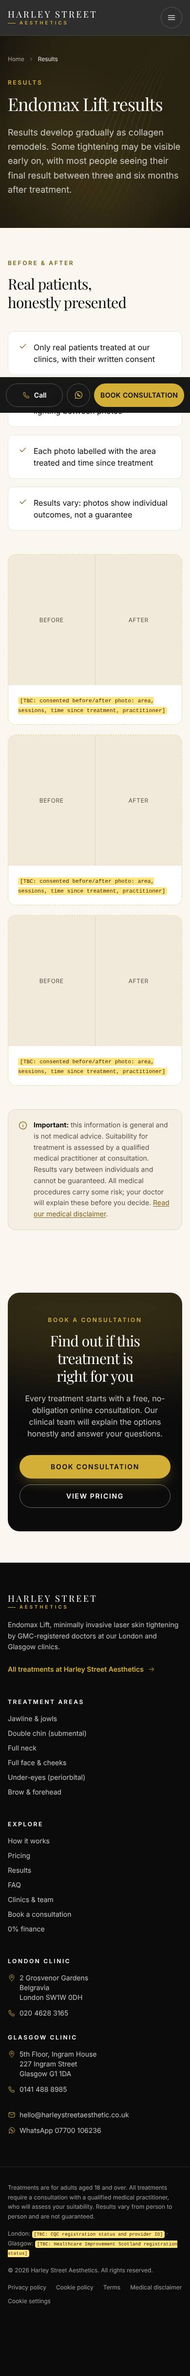
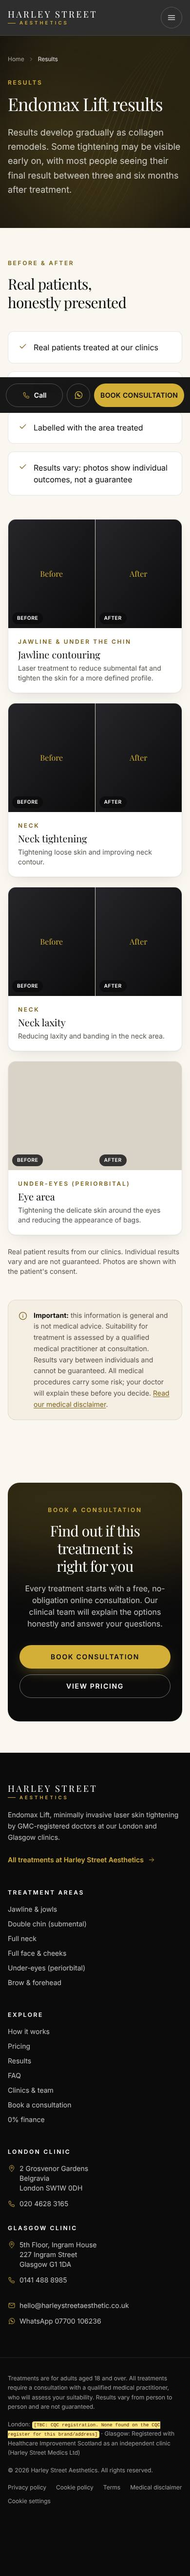
Fill remaining gaps from main website at clinic's request (titles, before/after, enquiry email, review source, prices)

diff --git a/src/app/page.tsx b/src/app/page.tsx
@@ -13,6 +13,8 @@ import { EnquiryForm } from "@/components/EnquiryForm";
 import { Icon } from "@/components/Icon";
 import { JsonLd } from "@/components/JsonLd";
 import { T } from "@/components/Tbc";
+import { BeforeAfter } from "@/components/BeforeAfter";
+import { RESULTS } from "@/content/results";
 import { allClinicsSchema, faqSchema, procedureSchema } from "@/lib/schema";
 import { pageMetadata } from "@/lib/seo";
 
@@ -149,18 +151,14 @@ export default function HomePage() {
                   Results build as new collagen forms, with most people seeing their final result between three and six months after treatment. Everyone&rsquo;s
                   skin is different, so results vary and are not guaranteed.
                 </p>
-                <p className="mt-4">We only show before-and-after photos of real patients who have given written consent, unedited and with full details.</p>
+                <p className="mt-4">All before-and-after photos are of real patients treated at our clinics.</p>
               </>
             }
           />
-          <div className="rounded-2xl border border-dashed border-gold/60 bg-white p-8 text-center">
-            <Icon name="sparkle" className="mx-auto h-8 w-8 text-gold-700" />
-            <p className="mt-4 font-serif text-2xl text-ink">Before &amp; after gallery</p>
-            <p className="mt-2 text-sm text-stone">
-              <T>[TBC: consented before-and-after photos with treatment details]</T>
-            </p>
-            <Link href="/results/" className="mt-6 inline-flex items-center gap-2 text-sm font-semibold text-gold-700 hover:text-ink">
-              About our results <Icon name="arrow" className="h-4 w-4" />
+          <div>
+            <BeforeAfter r={RESULTS[0]} />
+            <Link href="/results/" className="mt-4 inline-flex items-center gap-2 text-sm font-semibold text-gold-700 hover:text-ink">
+              See more results <Icon name="arrow" className="h-4 w-4" />
             </Link>
           </div>
         </div>
@@ -172,7 +170,7 @@ export default function HomePage() {
           id="team-title"
           eyebrow="Your doctors"
           title="Doctor-led from consultation to aftercare"
-          intro={<T>{"Treatment is planned and carried out by GMC-registered doctors. [TBC: confirm which practitioners perform this treatment at each clinic]"}</T>}
+          intro="Treatment is planned and carried out by GMC-registered doctors."
         />
         <ul className="grid gap-6 sm:grid-cols-2 lg:grid-cols-3">
           {PRACTITIONERS.map((p) => (

diff --git a/src/content/people.ts b/src/content/people.ts
@@ -18,7 +18,6 @@ export const PRACTITIONERS: Practitioner[] = [
   {
     name: "Dr Nina Ku",
     title: "Dermatologist",
-    qualifications: "[TBC: qualifications]",
     bio: "Dr Ku has trained and worked across the UK, France and Europe. Clinical interests include laser and energy-based treatments, laser lifting and injectables. Dr Ku speaks English, French and Russian.",
     photo: "https://harleystreetaesthetic.co.uk/images/team/dr-nina-ku.webp",
     gmc: "[TBC: GMC number]",
@@ -26,9 +25,10 @@ export const PRACTITIONERS: Practitioner[] = [
   },
   {
     name: "Mr Khalil Al-Nakib",
-    // GMC register shows full registration but no Specialist Register entry, so "Consultant" may not be usable.
-    title: "[TBC: job title. GMC register shows no Specialist Register entry]",
-    qualifications: "MB ChB (University of Mosul, 1971). [TBC: confirm FRCSEd]",
+    // Title and FRCSEd as published on harleystreetaesthetic.co.uk/london/team (used at the clinic's request).
+    // Note: the GMC register shows no Specialist Register entry. See docs/open-questions.md §E.
+    title: "Consultant Plastic Surgeon",
+    qualifications: "MB ChB, FRCSEd",
     bio: "Mr Al-Nakib qualified in medicine in 1971 and has experience in plastic, aesthetic and reconstructive surgery and the use of medical lasers, and holds regular clinics in London and Glasgow.",
     photo: "https://harleystreetmedics.clinic/wp-content/uploads/2024/11/6-1.webp",
     // Verified at https://www.gmc-uk.org/registrants/3632451 on 23 Oct 2026.
@@ -37,8 +37,7 @@ export const PRACTITIONERS: Practitioner[] = [
   },
   {
     name: "Dr Ayda Soltanzadeh",
-    title: "[TBC: job title. GMC number and specialist registration not yet verified]",
-    qualifications: "[TBC: qualifications]",
+    title: "Consultant Dermatologist",
     bio: "Dr Soltanzadeh offers bespoke treatment plans, with a focus on thread lifts, facial contouring and non-surgical facial rejuvenation.",
     photo: "https://images-strategyguys.netlify.app/harleystreemedics-image-source-main/dr.%20ayda.webp",
     gmc: "[TBC: GMC number]",
@@ -85,4 +84,4 @@ export const REVIEWS: Review[] = [
   },
 ];
 
-export const REVIEW_SOURCE_NOTE = "[TBC: review source (e.g. Google), dates and permission to quote]";
+export const REVIEW_SOURCE_NOTE = "Verified independent reviews, as published on our main website.";

diff --git a/src/app/results/page.tsx b/src/app/results/page.tsx
@@ -3,7 +3,8 @@ import { CtaBanner, MedicalDisclaimer, PageHero } from "@/components/Blocks";
 import { Icon } from "@/components/Icon";
 import { JsonLd } from "@/components/JsonLd";
 import { Section, SectionHeading } from "@/components/Section";
-import { T } from "@/components/Tbc";
+import { BeforeAfter } from "@/components/BeforeAfter";
+import { RESULTS, RESULTS_NOTE } from "@/content/results";
 import { breadcrumbSchema } from "@/lib/schema";
 import { pageMetadata } from "@/lib/seo";
 
@@ -16,9 +17,9 @@ export const metadata = pageMetadata({
 });
 
 const PRINCIPLES = [
-  "Only real patients treated at our clinics, with their written consent",
-  "No retouching, filters or changes to lighting between photos",
-  "Each photo labelled with the area treated and time since treatment",
+  "Real patients treated at our clinics",
+  "Shown with the patient's consent",
+  "Labelled with the area treated",
   "Results vary: photos show individual outcomes, not a guarantee",
 ];
 
@@ -42,19 +43,12 @@ export default function ResultsPage() {
             </li>
           ))}
         </ul>
-        <div className="grid gap-5 sm:grid-cols-2 lg:grid-cols-3">
-          {Array.from({ length: 3 }).map((_, i) => (
-            <figure key={i} className="overflow-hidden rounded-2xl border border-dashed border-gold/60 bg-white">
-              <div className="grid aspect-[4/3] grid-cols-2 gap-px bg-mist">
-                <div className="flex items-center justify-center bg-sand text-xs tracking-wider text-stone uppercase">Before</div>
-                <div className="flex items-center justify-center bg-sand text-xs tracking-wider text-stone uppercase">After</div>
-              </div>
-              <figcaption className="p-5 text-sm text-stone">
-                <T>[TBC: consented before/after photo: area, sessions, time since treatment, practitioner]</T>
-              </figcaption>
-            </figure>
+        <div className="grid gap-5 sm:grid-cols-2">
+          {RESULTS.map((r) => (
+            <BeforeAfter key={r.before} r={r} />
           ))}
         </div>
+        <p className="mt-6 text-sm text-stone">{RESULTS_NOTE}</p>
         <MedicalDisclaimer className="mt-12" />
       </Section>
       <CtaBanner />

diff --git a/src/content/results.ts b/src/content/results.ts
@@ -1,0 +1,49 @@
+/**
+ * Before/after photos reused at the clinic's request from the gallery on
+ * https://harleystreetaesthetic.co.uk/london/gallery (Endolift filter, read 23 Oct 2026).
+ * Titles are reworded to avoid "non-surgical lift" wording (Copilot playbook). The body result is
+ * left out because body areas aren't offered. Written consent for web use must be held on file.
+ */
+const CDN = "https://images-strategyguys.netlify.app/harley-street-aesthetics-main/";
+
+export interface Result {
+  title: string;
+  area: string;
+  text: string;
+  before: string;
+  after: string;
+}
+
+export const RESULTS: Result[] = [
+  {
+    title: "Jawline contouring",
+    area: "Jawline & under the chin",
+    text: "Laser treatment to reduce submental fat and tighten the skin for a more defined profile.",
+    before: `${CDN}Endo%20Lift%20Jaw%20Before.webp`,
+    after: `${CDN}Endo%20Lift%20Jaw%20After.webp`,
+  },
+  {
+    title: "Neck tightening",
+    area: "Neck",
+    text: "Tightening loose skin and improving neck contour.",
+    before: `${CDN}Neck%20Lift%20Before.webp`,
+    after: `${CDN}Neck%20Lift%20After.webp`,
+  },
+  {
+    title: "Neck laxity",
+    area: "Neck",
+    text: "Reducing laxity and banding in the neck area.",
+    before: `${CDN}Neck%20Before.webp`,
+    after: `${CDN}Neck%20After.webp`,
+  },
+  {
+    title: "Eye area",
+    area: "Under-eyes (periorbital)",
+    text: "Tightening the delicate skin around the eyes and reducing the appearance of bags.",
+    before: `${CDN}Endolift%20eye%20before.webp`,
+    after: `${CDN}Endolift%20eye%20after.webp`,
+  },
+];
+
+export const RESULTS_NOTE =
+  "Real patient results from our clinics. Individual results vary and are not guaranteed. Photos are shown with the patient's consent.";

diff --git a/src/content/areas.ts b/src/content/areas.ts
@@ -49,9 +49,9 @@ export const AREAS: Area[] = [
       "A soft neck–chin angle",
       "Mild laxity under the jaw",
     ],
-    price: "[TBC: standalone submental price]",
+    price: "£2,150",
     priceNote:
-      "Our EndoMax Signature package combines submental treatment with 2 ml jawline filler for £2,150 and includes one free Nu Sculpt session.",
+      "The price shown is our EndoMax Signature package: under-chin laser treatment plus 2 ml jawline filler, including one free Nu Sculpt session. Ask about under-chin treatment on its own at your consultation.",
     includesNuSculpt: false,
     icon: "chin",
     metaDescription:
@@ -125,7 +125,7 @@ export const PACKAGES = [
   },
   {
     name: "CO₂ + eyelid combination",
-    description: "CO₂ laser combined with laser treatment around the eyelids. [TBC: package details]",
+    description: "CO₂ laser combined with Endomax Lift for the eyelid area.",
     price: "£1,299",
     includesNuSculpt: false,
   },
@@ -143,9 +143,6 @@ export const CONSULTATION = {
 /** Copilot playbook: only this wording may be used. No providers, instalment amounts or terms. */
 export const FINANCE_TEXT = "0% finance may be available, subject to status.";
 export const FINANCE_SMALLPRINT = "[TBC: finance provider and FCA status before naming any lender or plan]";
-export const HEADLINE_PRICE_NOTE =
-  "[TBC: campaign headline “from £1,450, usually from £2,000” conflicts with the £999 per-area price. Confirm which to use]";
-
 export function getArea(slug: string) {
   return AREAS.find((a) => a.slug === slug);
 }

diff --git a/src/components/BeforeAfter.tsx b/src/components/BeforeAfter.tsx
@@ -1,0 +1,22 @@
+import type { Result } from "@/content/results";
+import { FallbackImage } from "./FallbackImage";
+
+export function BeforeAfter({ r }: { r: Result }) {
+  return (
+    <figure className="overflow-hidden rounded-2xl border border-ink/10 bg-white shadow-card">
+      <div className="grid grid-cols-2 gap-px bg-mist">
+        {(["before", "after"] as const).map((k) => (
+          <div key={k} className="relative">
+            <FallbackImage src={r[k]} alt={`${r.title}: ${k} treatment`} fallback={k === "before" ? "Before" : "After"} width={400} height={500} className="aspect-[4/5] w-full text-base" />
+            <span className="absolute bottom-2 left-2 rounded-full bg-ink/80 px-2.5 py-1 text-[0.65rem] font-semibold tracking-wider text-white uppercase">{k}</span>
+          </div>
+        ))}
+      </div>
+      <figcaption className="p-5">
+        <p className="eyebrow text-gold-700">{r.area}</p>
+        <p className="mt-1 font-serif text-xl text-ink">{r.title}</p>
+        <p className="mt-1 text-sm text-stone">{r.text}</p>
+      </figcaption>
+    </figure>
+  );
+}

diff --git a/src/app/pricing/page.tsx b/src/app/pricing/page.tsx
@@ -1,4 +1,4 @@
-import { AREAS, CONSULTATION, FINANCE_SMALLPRINT, FINANCE_TEXT, HEADLINE_PRICE_NOTE, NU_SCULPT_TERMS, PACKAGES } from "@/content/areas";
+import { AREAS, CONSULTATION, FINANCE_SMALLPRINT, FINANCE_TEXT, NU_SCULPT_TERMS, PACKAGES } from "@/content/areas";
 import { faqsByTag } from "@/content/faqs";
 import { BRAND, TREATMENT_NAME, TREATMENT_NAME_PLAIN } from "@/content/site";
 import { CtaBanner, MedicalDisclaimer, PageHero } from "@/components/Blocks";
@@ -108,9 +108,6 @@ export default function PricingPage() {
             </dd>
           </div>
         </dl>
-        <p className="mt-6 text-xs text-stone">
-          <T>{HEADLINE_PRICE_NOTE}</T>
-        </p>
       </Section>
 
       <Section tone="ivory" labelledBy="price-faq">

diff --git a/src/app/privacy-policy/page.tsx b/src/app/privacy-policy/page.tsx
@@ -32,7 +32,7 @@ export default function Page() {
       </ul>
       <h2>Who we share it with</h2>
       <p>
-        Our website host and form processor (Netlify, Inc.), our clinic management/CRM system (<T>[TBC: CRM provider]</T>) and, if you consent, Google and Meta
+        Our website host and form processor (Netlify, Inc.), our email provider and, if you consent, Google and Meta
         for analytics and advertising measurement. Some of these providers may process data outside the UK under appropriate safeguards.
       </p>
       <h2>How long we keep it</h2>

diff --git a/src/components/EnquiryForm.tsx b/src/components/EnquiryForm.tsx
@@ -11,7 +11,7 @@ import { trackLead } from "./Analytics";
  * Enquiry form → Netlify Forms (docs/decisions.md D9).
  * The form is registered at build time by public/__forms.html. Field names must match it.
  * TODO(launch): set the notification email / CRM webhook in Netlify → Forms → Notifications
- * ([TBC: enquiry destination from Copilot]).
+ * Destination: hello@harleystreetaesthetic.co.uk (the main site's published enquiry email).
  */
 
 const FORM_NAME = "enquiry";

diff --git a/src/content/treatment.ts b/src/content/treatment.ts
@@ -95,7 +95,6 @@ export const CANDIDACY = {
     "Active skin infection in the treatment area",
     "Pregnancy or breastfeeding",
     "Marked laxity or overhanging skin, prominent neck bands or significant volume loss, which may be better suited to other treatments",
-    "[TBC: clinical sign-off of full contraindications list]",
   ],
 };
 

diff --git a/src/content/site.ts b/src/content/site.ts
@@ -37,7 +37,7 @@ export const BRAND = {
     enabled: true,
   },
   sameAs: [
-    // [TBC: confirm HSA social profiles from Facebook Business Suite]
+    // No social profiles are published on harleystreetaesthetic.co.uk yet. Add the Facebook page URL when it goes live.
   ] as string[],
 } as const;
 

diff --git a/docs/review-checklist.md b/docs/review-checklist.md
@@ -4,33 +4,24 @@ Work through this before launch. Tick items as you go. Run `npm run check:tbc` t
 
 ## 1. Blockers: information still needed (every [TBC] item)
 
-The site shows each of these as an **amber highlighted** `[TBC: …]` on the page. There are 25 unique placeholders, left after checking Copilot, the three brand websites and the public registers (GMC, HIS, CQC, Companies House). See research.md §9 and open-questions.md §E.
+10 placeholders remain. None of these are published on harleystreetaesthetic.co.uk, harleystreetmedics.clinic, harleystreetmedicalwellness.co.uk, the Copilot playbook or the public registers, so they must come from the clinic.
 
 - [ ] `[TBC: booking, deposit and cancellation terms (not documented in the Copilot playbook)]`
-- [ ] `[TBC: campaign headline “from £1,450, usually from £2,000” conflicts with the £999 per-area price. Confirm which to use]`
-- [ ] `[TBC: clinical sign-off of full contraindications list]`
 - [ ] `[TBC: complaints procedure and escalation route]`
-- [ ] `[TBC: confirm FRCSEd]`
-- [ ] `[TBC: confirm HSA social profiles from Facebook Business Suite]`
 - [ ] `[TBC: confirm legal entity, e.g. Harley Street Medics Ltd (SC818003), 211b Main Street, Bellshill ML4 1AJ]`
-- [ ] `[TBC: confirm which practitioners perform this treatment at each clinic]`
-- [ ] `[TBC: consented before-and-after photos with treatment details]`
-- [ ] `[TBC: consented before/after photo: area, sessions, time since treatment, practitioner]`
 - [ ] `[TBC: CQC registration. None found on the CQC register for this brand/address]`
-- [ ] `[TBC: CRM provider]`
-- [ ] `[TBC: enquiry destination from Copilot]`
 - [ ] `[TBC: finance provider and FCA status before naming any lender or plan]`
 - [ ] `[TBC: Glasgow opening hours]`
 - [ ] `[TBC: GMC number]`
 - [ ] `[TBC: ICO number]`
-- [ ] `[TBC: job title. GMC number and specialist registration not yet verified]`
-- [ ] `[TBC: job title. GMC register shows no Specialist Register entry]`
 - [ ] `[TBC: legal review]`
-- [ ] `[TBC: package details]`
-- [ ] `[TBC: qualifications]`
 - [ ] `[TBC: retention periods for enquiries that do and do not become patients]`
-- [ ] `[TBC: review source (e.g. Google), dates and permission to quote]`
-- [ ] `[TBC: standalone submental price]`
+
+Filled from the main website at the clinic's request (23 Oct). Please check:
+- [ ] "Consultant Plastic Surgeon" + FRCSEd (Mr Al-Nakib) and "Consultant Dermatologist" (Dr Soltanzadeh): titles copied from the main site. The GMC register shows Mr Al-Nakib is **not** on the Specialist Register.
+- [ ] Before/after photos (4 pairs) copied from the main site gallery: confirm written patient consent covers this site and advertising.
+- [ ] Enquiries go to hello@harleystreetaesthetic.co.uk (set in Netlify → Forms → Notifications).
+- [ ] Reviews are described as "Verified independent reviews, as published on our main website".
 
 Also not shown as a placeholder, but missing:
 - [ ] Official logo files (SVG/PNG, light and dark). The site uses a text wordmark until supplied (`src/components/Wordmark.tsx`).
